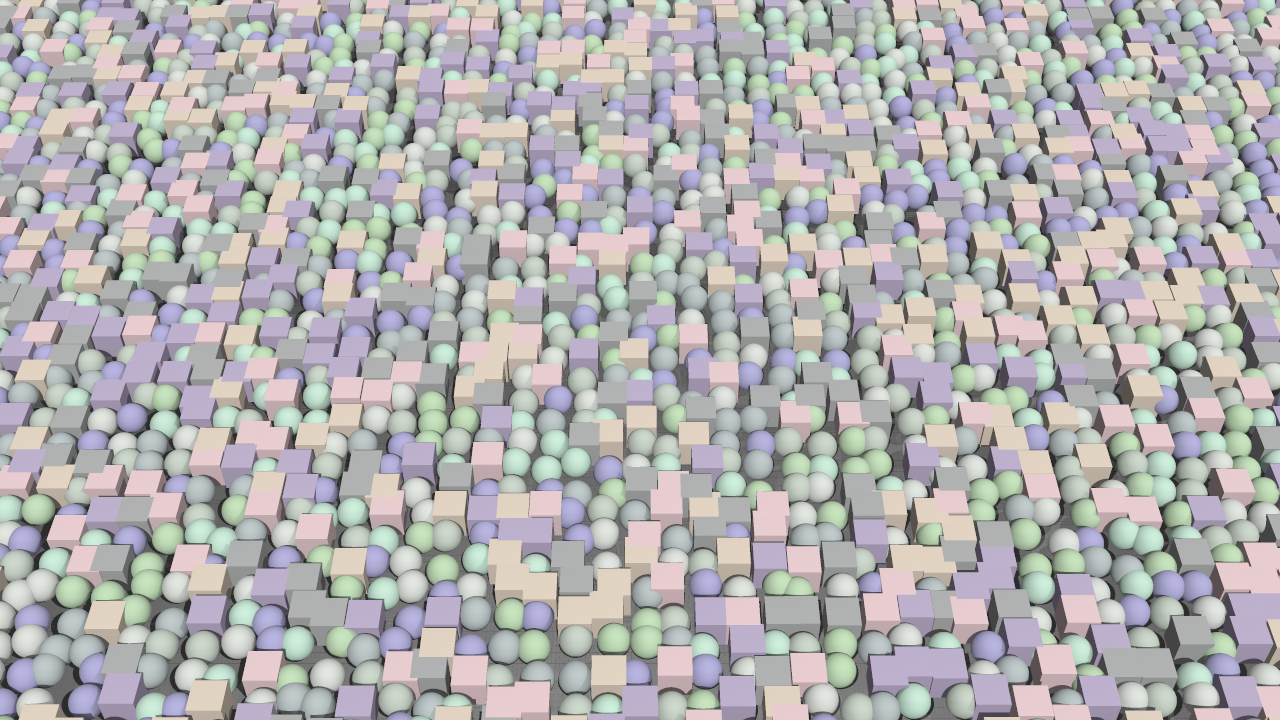
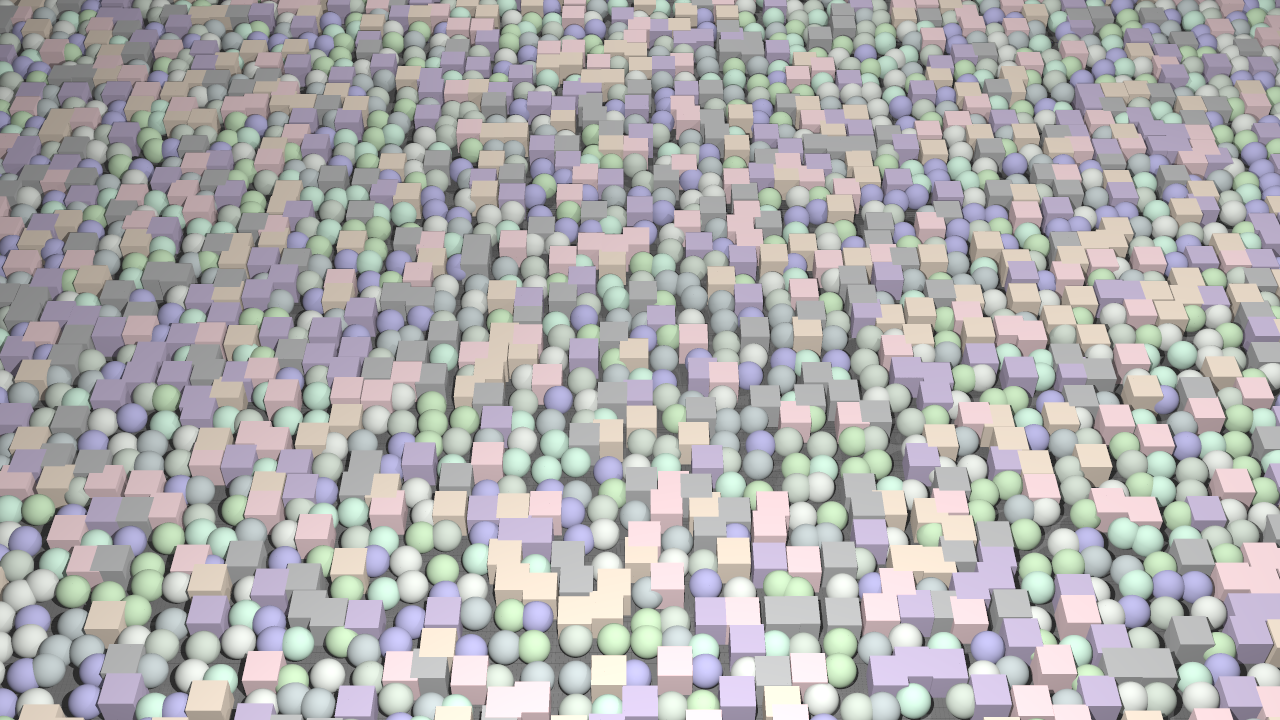
jijioJ

diff --git a/src/raytrace.cpp b/src/raytrace.cpp
@@ -31,7 +31,8 @@ ym::vec3f linePosition(const yobj::mesh* msh, int eid, ym::vec3f euv) {
   return (euv.x * msh->shapes[0]->pos[l.x] + euv.y * msh->shapes[0]->pos[l.y]);
 }
 
-ym::vec4f textureLDR(const yobj::mesh* msh, int eid, ym::vec3f euv, yobj::texture* tex ){
+ym::vec4f textureLDR(const yobj::mesh* msh, int eid, ym::vec3f euv, yobj::texture* tex){
+
   auto tr = msh->shapes[0]->triangles[eid];
 
   float u1 = msh->shapes[0]->texcoord[tr.x].x;
@@ -55,8 +56,6 @@ ym::vec4f textureLDR(const yobj::mesh* msh, int eid, ym::vec3f euv, yobj::textur
 
   float wi = s - i;
   float wj = t - j;
-
-  //return ym::srgb_to_linear(tex->ldr[{i,j}]);
 
   return ym::vec4f((1-wi)*(1-wj))*ym::srgb_to_linear(tex->ldr[{i,j}])
          +ym::vec4f(wi*(1-wj))*ym::srgb_to_linear(tex->ldr[{i1,j}])
@@ -158,7 +157,6 @@ ym::vec4f compute_color(const ybvh::scene* bvh,const ym::vec4f& amb, const yobj:
       auto n = triangleNormal(msh,intersection.eid,intersection.euv.xyz());
       auto p = trianglePosition(msh,intersection.eid,intersection.euv.xyz());
 
-
       if(mat->kd_txt!= nullptr)
         kd*=textureLDR(msh, intersection.eid, intersection.euv.xyz(), mat->kd_txt).xyz();
 
@@ -167,23 +165,14 @@ ym::vec4f compute_color(const ybvh::scene* bvh,const ym::vec4f& amb, const yobj:
 
 
       for(auto light:lights){
-        //auto light_pose = ym::transform_point(ist_frame,light->translation);
-        //auto light_pose = light->translation;
-        //auto light_pose = ym::transform_point(ym::to_frame(light->xform()),light->msh->shapes[0]->pos[0]);
-        //auto light_frame = ym::transform_frame(ym::inverse(ym::to_frame(light->xform())),ym::to_frame(light->xform()));
-        //light_frame = ym::transform_frame(ist_frame,ym::to_frame(light->xform()));
 
-        //auto light_frame = ym::inverse(ym::to_frame(light->xform()))*ist_frame;
-            //ym::transform_frame(ist_frame,ym::to_frame(light->xform()));
-        //auto light_pose = ym::transform_point(light->xform(),light->msh->shapes[0]->pos[0]);
-        auto light_pose = ym::transform_point(light->xform(),light->msh->shapes[0]->pos[0]);
-        //light_pose = ym::transform_point(ist_frame,light_pose);
-        //light_pose = ym::transform_point(ist_frame,light_pose);
+        auto light_pose = light->translation + light->msh->shapes[0]->pos[0];
+        light_pose = ym::transform_point_inverse(ist_frame, light_pose);
+
         auto l = ym::normalize(light_pose-p);
         auto r = ym::length(light_pose-p);
 
         ym::ray3f sr = ym::ray3f(p,l,epsilon,r);
-        //sr=ym::transform_ray(ym::inverse(scn->cameras[0]->xform()),sr);
         sr=ym::transform_ray(ist_frame,sr);
 
         auto shadow = ybvh::intersect_scene(bvh, sr, false);
@@ -196,7 +185,6 @@ ym::vec4f compute_color(const ybvh::scene* bvh,const ym::vec4f& amb, const yobj:
                    + ks * In * ym::pow(ym::max(.0f,ym::dot(n,h)),ns);
         }
       }
-
 
       //reflection
       if(mat->kr.x!=0 && mat->kr.y!=0 && mat->kr.z!=0)
@@ -317,8 +305,6 @@ int main(int argc, char** argv) {
   /*for(auto ist:scn->instances) {
     cerr << ist->msh->shapes[0]->mat->kd_txt->path << endl;
   }*/
-
-
 
   // create bvh
   yu::logging::log_info("creating bvh");
